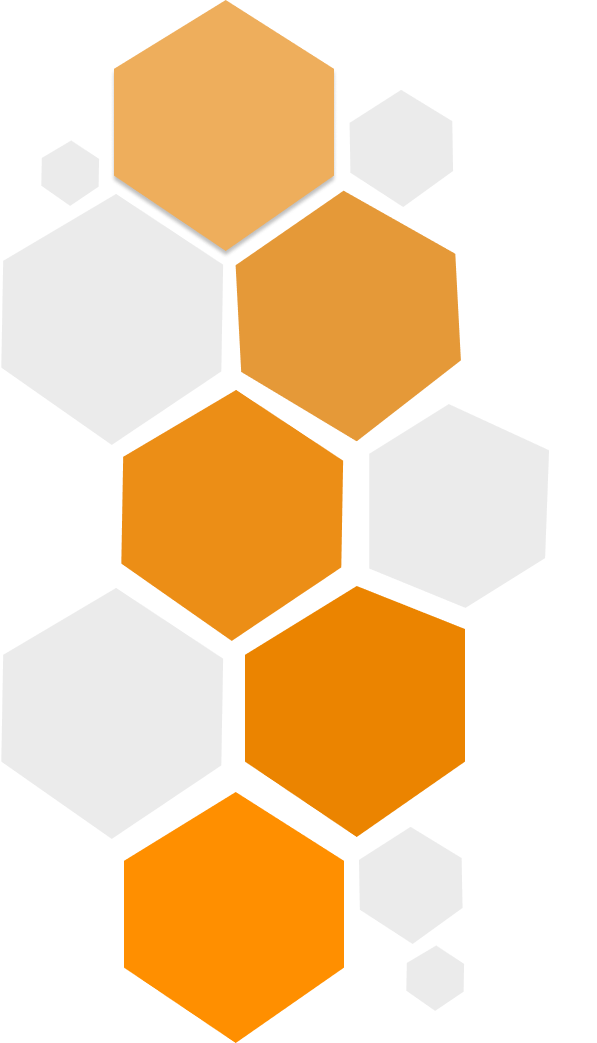
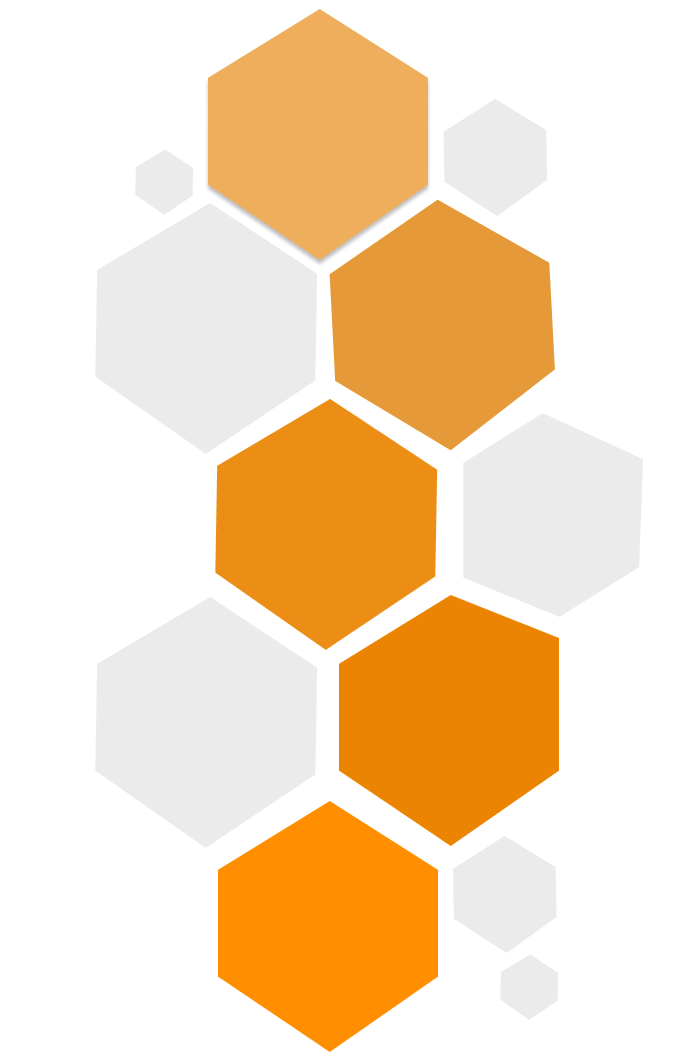
mobile done

Changed region(s): [[0.1809, 0.0, 0.8442, 1.0]]

diff --git a/Asset/css/mobile.css b/Asset/css/mobile.css
@@ -17,4 +17,32 @@
     .ajakan{
         font-size: 16px !important;
     }
+    .need{
+        padding: 0 24px;
+    }
+    .need h2{
+        font-size: 32px !important;
+    }
+    p{
+        font-size: 16px !important;
+    }
+    .need::before{
+        display: none !important;
+    }
+    .recruitment{
+        padding: 0 24px;
+    }
+    .recruitment h2{
+        font-size: 40px !important;
+    }
+    .recruitment img{
+        width: 100%;
+    }
+    .about{
+        padding: 0 24px;
+    }
+    .about h2{
+        font-size: 48px !important;
+        margin-bottom: 0 !important;
+    }
 }

diff --git a/index.html b/index.html
@@ -85,7 +85,7 @@
     </section>
     <section class="about mt-5">
         <div class="container">
-            <h2 class="mb-4">About OmahTI</h2>
+            <h2 class="mb-4">ABOUT OMAHTI</h2>
             <p class="mt-5">Lorem ipsum dolor sit amet consectetur, adipisicing elit. Aperiam omnis autem aliquam qui
                 facere magnam eligendi minus praesentium iste, asperiores molestias nihil exercitationem odit quam,
                 repudiandae minima ad ut cumque.
